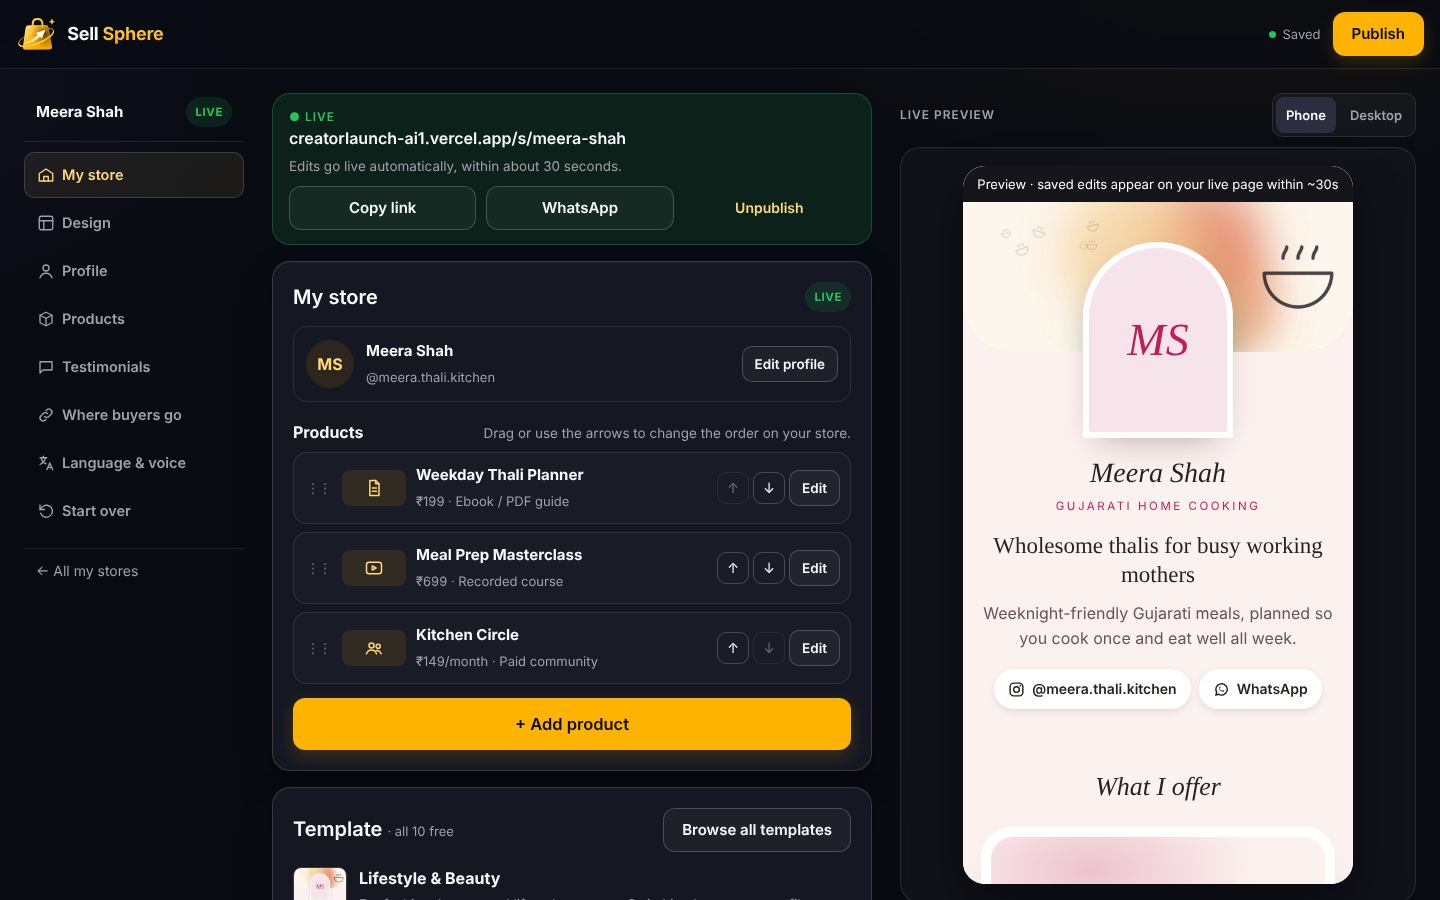
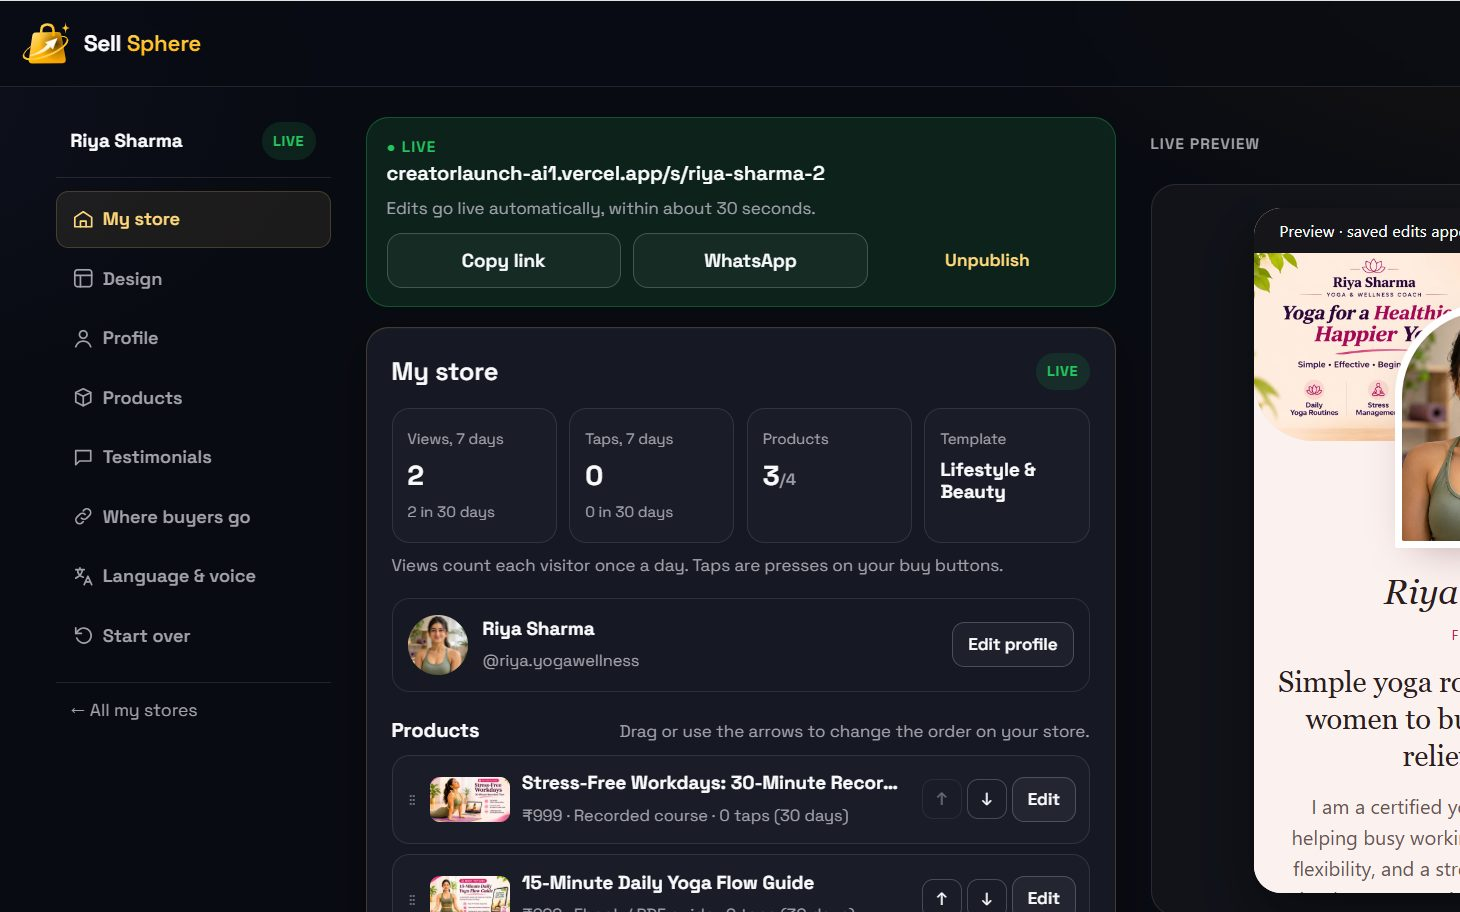
Home hero: show Riya Sharma's real store (her dashboard and her storefront) instead of the fictional sample
Claude-Session: https://claude.ai/code/session_01NZou7cyD8hHBzkpw52vvuP

diff --git a/public/index.html b/public/index.html
@@ -47,14 +47,14 @@
     </div>
     <ul class="lh-ticks"><li><svg class="tk" viewBox="0 0 24 24" aria-hidden="true"><path d="M5 12.5l4.5 4.5L19 7.5"/></svg>Free to start</li><li><svg class="tk" viewBox="0 0 24 24" aria-hidden="true"><path d="M5 12.5l4.5 4.5L19 7.5"/></svg>No sign-up</li><li><svg class="tk" viewBox="0 0 24 24" aria-hidden="true"><path d="M5 12.5l4.5 4.5L19 7.5"/></svg>A first draft in about a minute</li></ul>
   </div>
-  <div class="hx" role="img" aria-label="The Sell Sphere dashboard on a laptop, and the creator's published store on a phone. Example creator: Meera Shah, Gujarati home cooking.">
+  <div class="hx" role="img" aria-label="The Sell Sphere dashboard on a laptop, and the creator's published store on a phone. Example creator: Riya Sharma, yoga and wellness coach.">
     <div class="hx-stage">
       <div class="hx-glow"></div>
       <div class="hx-laptop">
-        <div class="hx-screen"><img src="/brand/hero-dashboard.jpg" alt="" width="1440" height="900" fetchpriority="high"></div>
+        <div class="hx-screen"><img src="/brand/hero-dashboard.jpg?v=riya" alt="" width="1460" height="912" fetchpriority="high"></div>
         <div class="hx-base"></div>
       </div>
-      <div class="hx-phone"><span class="hx-notch"></span><img src="/brand/hero-store.jpg" alt="" width="780" height="1688"></div>
+      <div class="hx-phone"><span class="hx-notch"></span><img src="/brand/hero-store.jpg?v=riya" alt="" width="780" height="1688"></div>
       <div class="hx-fmt b1"><svg viewBox="0 0 24 24" width="30" height="30" fill="none" stroke="currentColor" stroke-width="1.6" stroke-linecap="round" stroke-linejoin="round" aria-hidden="true"><path d="M3 9l9-5 9 5-9 5z"/><path d="M7 11.5V16c1.5 1.5 3 2 5 2s3.5-.5 5-2v-4.5"/><path d="M21 9v5"/></svg><span>Courses</span></div>
       <div class="hx-fmt b2"><svg viewBox="0 0 24 24" width="30" height="30" fill="none" stroke="currentColor" stroke-width="1.6" stroke-linecap="round" stroke-linejoin="round" aria-hidden="true"><path d="M4 5a2 2 0 0 1 2-2h13v16H6a2 2 0 0 0-2 2zM4 19V5M8 7h7M8 11h5"/></svg><span>Ebooks</span></div>
       <div class="hx-fmt b3"><svg viewBox="0 0 24 24" width="30" height="30" fill="none" stroke="currentColor" stroke-width="1.6" stroke-linecap="round" stroke-linejoin="round" aria-hidden="true"><rect x="3" y="6" width="13" height="12" rx="2"/><path d="M16 10l5-3v10l-5-3"/></svg><span>Live classes</span></div>
